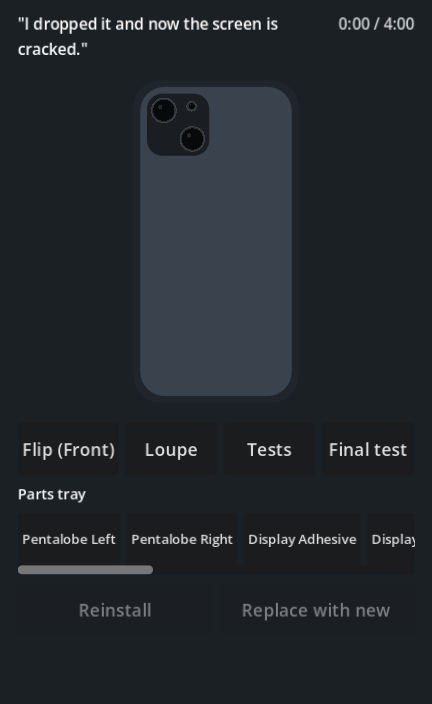
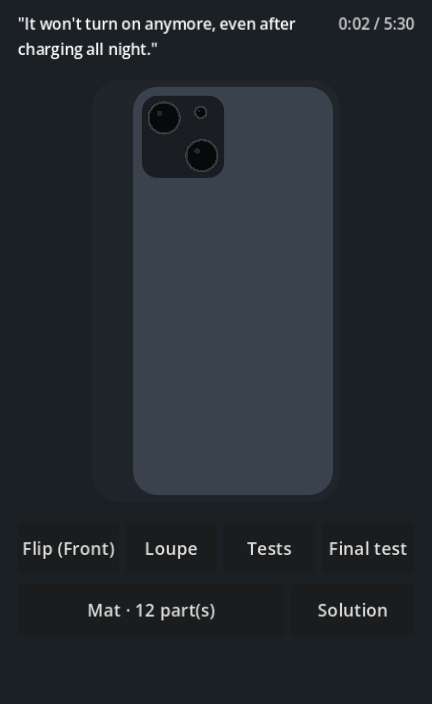
docs: captures du README avec écran rabattu et tapis magnétique
Claude-Session: https://claude.ai/code/session_01VgzxZ2qS1cV8GfFpNkutWg

diff --git a/README.md b/README.md
@@ -9,11 +9,12 @@ remplace la pièce, on remonte et on lance le test final.
 > Nom de travail. Les appareils sont des analogues fictifs : aucun nom de marque ni de modèle réel.
 
 <p align="center">
-  <img src="docs/images/customer.png" width="19%" alt="Accueil d'un client">
-  <img src="docs/images/workbench_closed.png" width="19%" alt="Appareil fermé">
-  <img src="docs/images/workbench_resisting.png" width="19%" alt="Batterie encore collée qui résiste">
-  <img src="docs/images/workbench_back.png" width="19%" alt="Dos scellé">
-  <img src="docs/images/day_report.png" width="19%" alt="Bilan de fin de journée">
+  <img src="docs/images/customer.png" width="16%" alt="Accueil d'un client">
+  <img src="docs/images/workbench_closed.png" width="16%" alt="Appareil fermé">
+  <img src="docs/images/workbench_resisting.png" width="16%" alt="Écran rabattu tenu par ses nappes, batterie encore collée qui résiste">
+  <img src="docs/images/workbench_mat.png" width="16%" alt="Tapis magnétique : vis rangées à leur emplacement d'origine">
+  <img src="docs/images/workbench_back.png" width="16%" alt="Dos scellé">
+  <img src="docs/images/day_report.png" width="16%" alt="Bilan de fin de journée">
 </p>
 
 ## Le jeu
@@ -28,6 +29,11 @@ remplace la pièce, on remonte et on lance le test final.
   en premier, languettes adhésives, haut-parleur, vibreur, port de charge collé.
 - **Diagnostic.** Plainte du client, loupe, tests logiciels, test final ; les remplacements
   inutiles comptent comme erreurs au bilan.
+- **Tapis magnétique.** Chaque vis et chaque pièce retirée reste posée à sa place d'origine, avec sa
+  tête et sa longueur. Un écran ouvert reste rabattu à côté de l'appareil tant que ses nappes
+  sont branchées.
+- **Mode solution.** Un doigt fantôme montre chaque geste, étape par étape et commenté, depuis
+  l'état où l'on en est. La réparation compte alors comme assistée.
 
 Détails : [GDD](GDD.md) · [schéma des données et règles](docs/data_schema.md).
 
